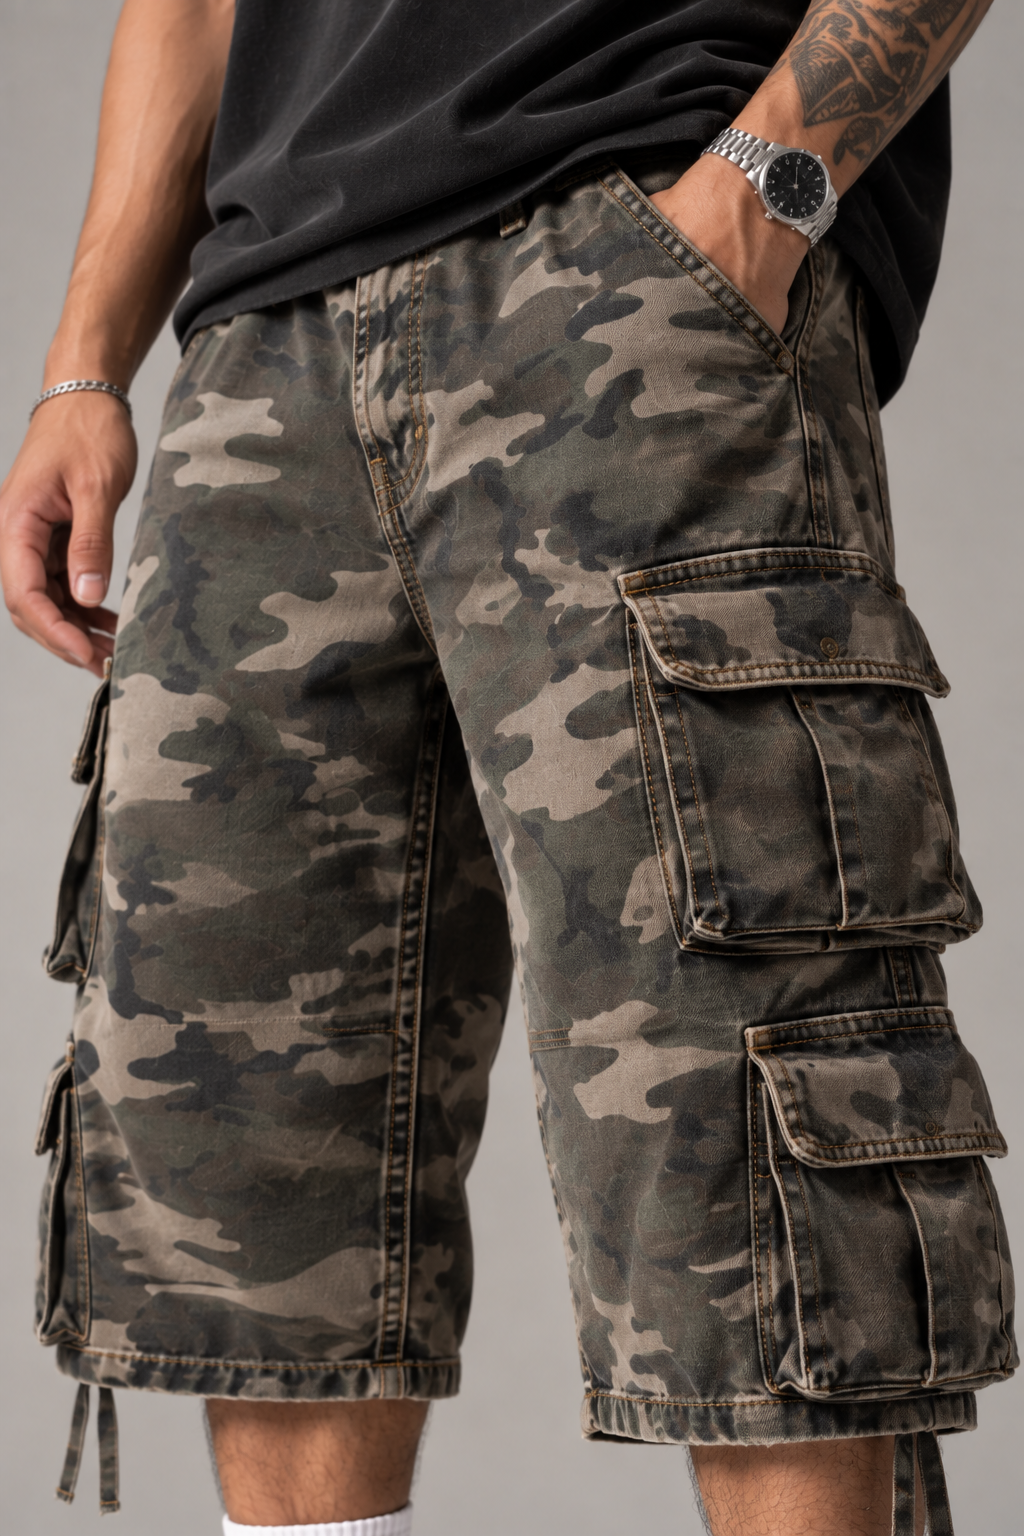
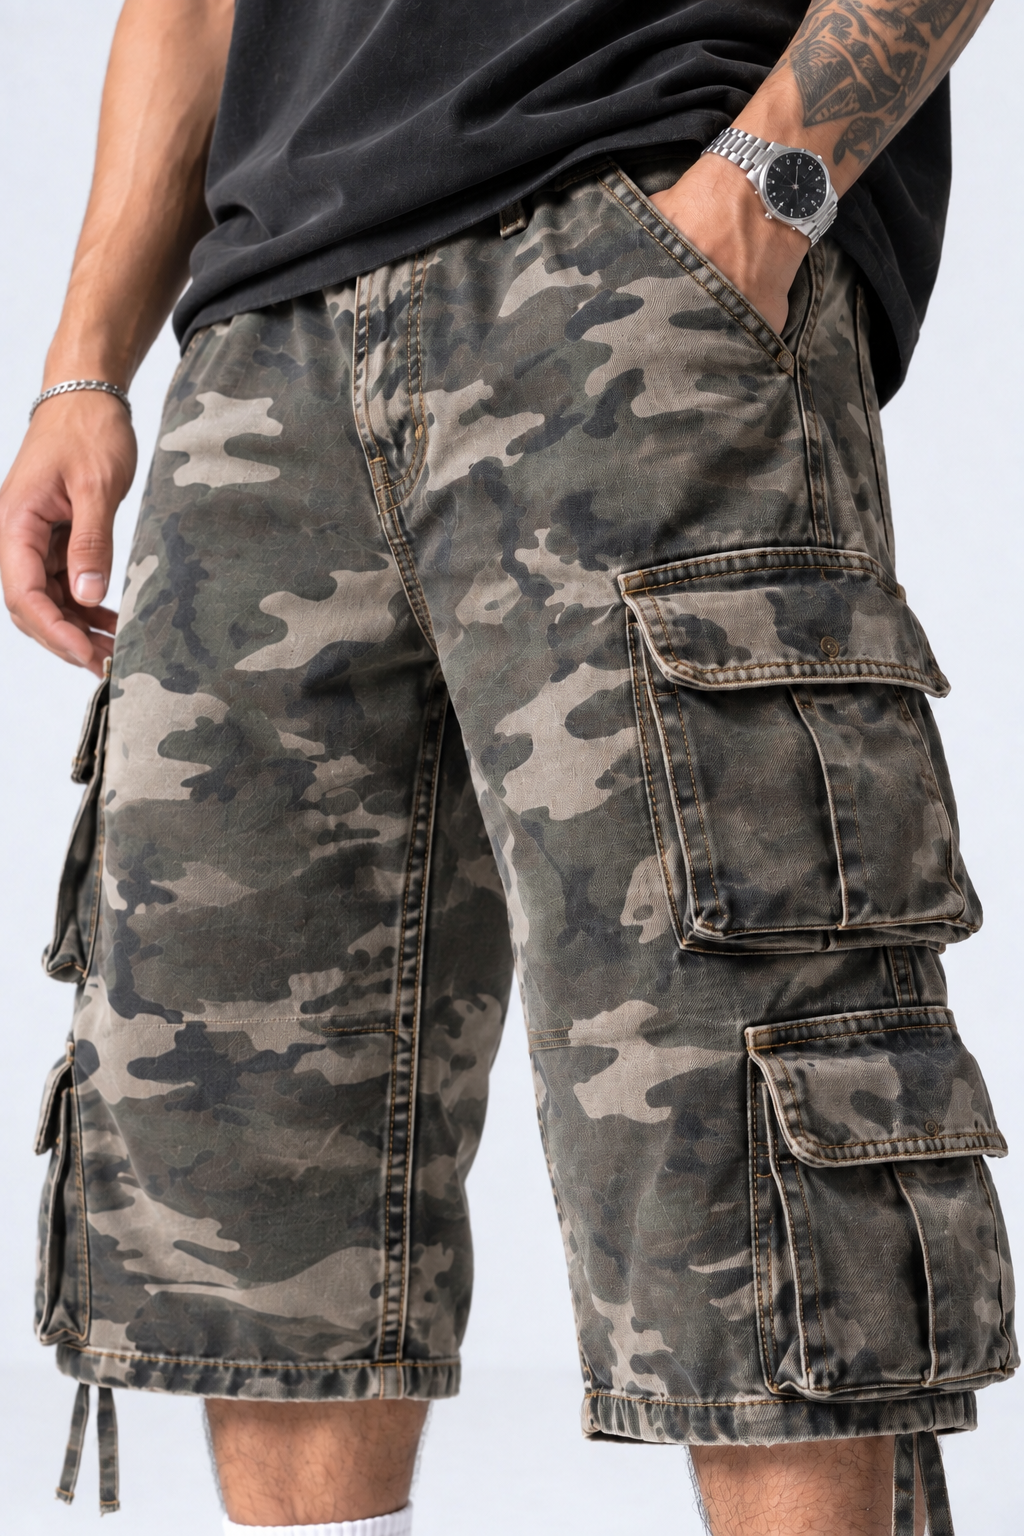
Refresh Camo 3/4 Cargo Shorts with new editorial studio shots (v2 filenames); bump cache v78

diff --git a/js/data.js b/js/data.js
@@ -59,7 +59,7 @@ const PRODUCTS = [
 
   /* ---- Shorts collection (real photography, verified logo-free) ---- */
   {id:"rl-sp260310pmh6", name:"Light Wash Distressed Denim Shorts", cat:"Shorts", price:70, was:0, color:"Light Wash", tag:"BEST SELLER", rating:4.7, reviews:88, sizes:["S","M","L","XL","XXL"], oos:["S","XXL"], photos:["rl-sp260310pmh6-front2.jpg","rl-sp260310pmh6-side2.jpg","rl-sp260310pmh6-back2.jpg","rl-sp260310pmh6-detail2.jpg"], story:["The Light Wash Distressed Denim Shorts take a relaxed wide-leg jort and push it into full streetwear territory, cut long and loose for an easy, lived-in drape. A bright light wash and all-over crackle give them a sun-faded look straight off the rack.","Heavy hand-finished rips run across the front and open into an irregular frayed hem that keeps fraying with every wear. Classic five-pocket construction, antique rivets and a signature Reserved LA woven tab finish a pair built to look better the more you beat them up."], model:"Model is 185cm / 6ft 1in, 75kg / 165lbs, 31-inch waist — wears size M", features:["Relaxed wide-leg fit","Falls below the knee","Heavy distressing and blown-out rips","Raw, irregular frayed hem","Five-pocket styling with antique rivets","Reserved LA woven tab at back pocket","100% cotton denim"], desc:"Loose wide-leg denim jorts in a light wash, finished with heavy rips and an irregular frayed hem for real streetwear grit."},
-  {id:"rl-sp26061297av", name:"Camo 3/4 Cargo Shorts", cat:"Shorts", price:86, was:0, color:"Green Camo", tag:"NEW", rating:4.8, reviews:42, sizes:["S","M","L","XL"], oos:[], photos:["rl-sp26061297av-front.jpg","rl-sp26061297av-side.jpg","rl-sp26061297av-back.jpg","rl-sp26061297av-detail.jpg"], story:["Cut in a longer 3/4 length, the Camo 3/4 Cargo Shorts sit right at the shin for that oversized, early-2000s utility silhouette. A soft washed camo print with tonal contrast stitching keeps them looking broken-in from day one.","Bellowed flap cargo pockets ride each leg for real storage, reinforced with bar-tack stitching at every stress point. Cut from durable cotton ripstop with a relaxed straight leg, they layer effortlessly over any sneaker."], model:"Model is 185cm / 6ft 1in, 75kg / 165lbs, 31-inch waist — wears size M", features:["Relaxed straight fit","Longer 3/4 length","Bellowed flap cargo pockets","Bar-tack reinforced stress points","Washed camo print","Reserved LA woven tab","100% cotton ripstop"], desc:"Cotton ripstop camo cargos in a longer 3/4 length. Relaxed straight fit, reinforced flap pockets, and bar-tack stitching at the stress points."},
+  {id:"rl-sp26061297av", name:"Camo 3/4 Cargo Shorts", cat:"Shorts", price:86, was:0, color:"Green Camo", tag:"NEW", rating:4.8, reviews:42, sizes:["S","M","L","XL"], oos:[], photos:["rl-sp26061297av-front2.jpg","rl-sp26061297av-side2.jpg","rl-sp26061297av-back2.jpg","rl-sp26061297av-detail2.jpg"], story:["Cut in a longer 3/4 length, the Camo 3/4 Cargo Shorts sit right at the shin for that oversized, early-2000s utility silhouette. A soft washed camo print with tonal contrast stitching keeps them looking broken-in from day one.","Bellowed flap cargo pockets ride each leg for real storage, reinforced with bar-tack stitching at every stress point. Cut from durable cotton ripstop with a relaxed straight leg, they layer effortlessly over any sneaker."], model:"Model is 185cm / 6ft 1in, 75kg / 165lbs, 31-inch waist — wears size M", features:["Relaxed straight fit","Longer 3/4 length","Bellowed flap cargo pockets","Bar-tack reinforced stress points","Washed camo print","Reserved LA woven tab","100% cotton ripstop"], desc:"Cotton ripstop camo cargos in a longer 3/4 length. Relaxed straight fit, reinforced flap pockets, and bar-tack stitching at the stress points."},
   {id:"rl-sp260616fa60", name:"Military Wide-Leg Cargo Shorts", cat:"Shorts", price:92, was:0, color:"Washed Camo", tag:"NEW", rating:4.8, reviews:61, sizes:["S","M","L","XL","XXL"], oos:["XXL"], photos:["rl-sp260616fa60-front.jpg","rl-sp260616fa60-side.jpg","rl-sp260616fa60-back.jpg","rl-sp260616fa60-detail.jpg"], story:["The Military Wide-Leg Cargo Shorts are our most dramatic short yet — cut wide and long with true volume through the leg for a runway-ready, utilitarian shape. A vintage camo wash with rust-toned overdye gives every pair a weathered, one-of-one feel.","Stacked utility pockets, webbing straps and buckle hardware bring genuine military detailing, while adjustable leg tabs let you tune the drape. Built from heavy washed cotton that holds its structure and softens with wear."], model:"Model is 185cm / 6ft 1in, 75kg / 165lbs, 31-inch waist — wears size M", features:["Wide-leg volume fit","Long, below-knee length","Stacked cargo and utility pockets","Webbing straps with buckle hardware","Adjustable leg tabs","Vintage camo overdye wash","100% heavy cotton"], desc:"Wide-leg military cargos in a vintage-washed camo, cut long and roomy with stacked utility pockets, webbing straps and buckle detailing. A dramatic, runway-ready short."},
   {id:"rl-sp260602ah0q", name:"Cargo Multi-Pocket Denim Jorts", cat:"Shorts", price:72, was:88, color:"Washed Denim", tag:"SALE", rating:4.6, reviews:64, sizes:["M","L","XL","XXL"], oos:["M"], photos:["rl-sp260602ah0q-front.jpg","rl-sp260602ah0q-side.jpg","rl-sp260602ah0q-back.jpg","rl-sp260602ah0q-detail.jpg"], story:["Part cargo, part jort — the Cargo Multi-Pocket Denim Jorts combine a wide denim base with utility pockets stacked down each leg. A mid washed indigo keeps them versatile enough to anchor any fit.","Flap cargo pockets, coin pockets and classic five-pocket denim styling give you storage from every angle, all reinforced with sturdy rivets. A frayed cut hem adds the finishing streetwear edge."], model:"Model is 185cm / 6ft 1in, 75kg / 165lbs, 31-inch waist — wears size M", features:["Relaxed wide fit","Below-knee length","Stacked flap cargo pockets","Five-pocket denim construction","Reinforced rivets","Frayed cut hem","100% cotton denim"], desc:"Cotton denim cargo jorts with a soft wash, wide-leg silhouette, raw hem, and a reinforced multi-pocket layout. Utility with an attitude."},
   {id:"rl-sp260514qcbq", name:"Industrial Cargo Shorts", cat:"Shorts", price:116, was:0, color:"Washed Brown", tag:"", rating:4.9, reviews:37, sizes:["M","L","XL","XXL"], oos:["M"], photos:["rl-sp260514qcbq-front.jpg","rl-sp260514qcbq-side.jpg","rl-sp260514qcbq-back.jpg","rl-sp260514qcbq-detail.jpg"], story:["The Industrial Cargo Shorts are our most technical short yet, built on a washed-brown canvas with contrast black mesh panels and a full rig of straps, buckles and D-rings. Rust-toned overdye and heavy topstitching give every pair a weathered, one-of-one feel.","Stacked 3D cargo pockets, webbing straps, metal eyelets and adjustable buckle hardware make them as functional as they are aggressive — genuine utility with a runway edge. Cut from a heavy washed cotton canvas with mesh inserts and a relaxed straight leg."], model:"Model is 185cm / 6ft 1in, 75kg / 165lbs, 31-inch waist — wears size M", features:["Relaxed straight fit","Washed-brown canvas with black mesh panels","Stacked 3D cargo pockets","Webbing straps with buckle hardware","Metal eyelets and D-rings","Rust-toned overdye wash","Heavy washed cotton canvas"], desc:"Heavy washed-canvas cargo shorts with 3D utility pockets, mesh panels, and a full rig of straps and buckle hardware. A premium, hard-edged statement."},

diff --git a/shop.html b/shop.html
@@ -10,7 +10,7 @@
 <link href="https://fonts.googleapis.com/css2?family=Anton&family=Inter:wght@400;500;600;700&display=swap" rel="stylesheet">
   <link rel="icon" type="image/png" href="assets/favicon.png">
   <link rel="apple-touch-icon" href="assets/favicon.png">
-<link rel="stylesheet" href="styles.css?v=77">
+<link rel="stylesheet" href="styles.css?v=78">
 </head>
 <body>
 <div id="announce-slot"></div>
@@ -41,9 +41,9 @@
 </main>
 
 <div id="footer-slot"></div>
-<script src="js/data.js?v=77"></script>
-<script src="js/site.js?v=77"></script>
-<script src="js/shop.js?v=77"></script>
+<script src="js/data.js?v=78"></script>
+<script src="js/site.js?v=78"></script>
+<script src="js/shop.js?v=78"></script>
 <script>mountChrome("shop"); initShop();</script>
 </body>
 </html>

diff --git a/product.html b/product.html
@@ -10,7 +10,7 @@
 <link href="https://fonts.googleapis.com/css2?family=Anton&family=Inter:wght@400;500;600;700&display=swap" rel="stylesheet">
   <link rel="icon" type="image/png" href="assets/favicon.png">
   <link rel="apple-touch-icon" href="assets/favicon.png">
-<link rel="stylesheet" href="styles.css?v=77">
+<link rel="stylesheet" href="styles.css?v=78">
 </head>
 <body>
 <div id="announce-slot"></div>
@@ -25,9 +25,9 @@
 </main>
 
 <div id="footer-slot"></div>
-<script src="js/data.js?v=77"></script>
-<script src="js/site.js?v=77"></script>
-<script src="js/shop.js?v=77"></script>
+<script src="js/data.js?v=78"></script>
+<script src="js/site.js?v=78"></script>
+<script src="js/shop.js?v=78"></script>
 <script>mountChrome(""); initProduct();</script>
 </body>
 </html>

diff --git a/track-order.html b/track-order.html
@@ -10,7 +10,7 @@
 <link href="https://fonts.googleapis.com/css2?family=Anton&family=Inter:wght@400;500;600;700&display=swap" rel="stylesheet">
   <link rel="icon" type="image/png" href="assets/favicon.png">
   <link rel="apple-touch-icon" href="assets/favicon.png">
-<link rel="stylesheet" href="styles.css?v=77">
+<link rel="stylesheet" href="styles.css?v=78">
 </head>
 <body>
 <div id="announce-slot"></div>
@@ -31,8 +31,8 @@
 </main>
 
 <div id="footer-slot"></div>
-<script src="js/data.js?v=77"></script>
-<script src="js/site.js?v=77"></script>
+<script src="js/data.js?v=78"></script>
+<script src="js/site.js?v=78"></script>
 <script>
   mountChrome("");
   function trackSubmit(e){ e.preventDefault(); toast("We've emailed your latest tracking details."); return false; }

diff --git a/index.html b/index.html
@@ -20,7 +20,7 @@
 <link href="https://fonts.googleapis.com/css2?family=Anton&family=Inter:wght@400;500;600;700&display=swap" rel="stylesheet">
   <link rel="icon" type="image/png" href="assets/favicon.png">
   <link rel="apple-touch-icon" href="assets/favicon.png">
-<link rel="stylesheet" href="styles.css?v=77">
+<link rel="stylesheet" href="styles.css?v=78">
 </head>
 <body>
 <div id="announce-slot"></div>
@@ -181,9 +181,9 @@
 
 <div id="footer-slot"></div>
 
-<script src="js/data.js?v=77"></script>
-<script src="js/site.js?v=77"></script>
-<script src="js/shop.js?v=77"></script>
+<script src="js/data.js?v=78"></script>
+<script src="js/site.js?v=78"></script>
+<script src="js/shop.js?v=78"></script>
 <script>
   mountChrome("home");
 

diff --git a/contact.html b/contact.html
@@ -10,7 +10,7 @@
 <link href="https://fonts.googleapis.com/css2?family=Anton&family=Inter:wght@400;500;600;700&display=swap" rel="stylesheet">
   <link rel="icon" type="image/png" href="assets/favicon.png">
   <link rel="apple-touch-icon" href="assets/favicon.png">
-<link rel="stylesheet" href="styles.css?v=77">
+<link rel="stylesheet" href="styles.css?v=78">
 </head>
 <body>
 <div id="announce-slot"></div>
@@ -72,8 +72,8 @@
 </main>
 
 <div id="footer-slot"></div>
-<script src="js/data.js?v=77"></script>
-<script src="js/site.js?v=77"></script>
+<script src="js/data.js?v=78"></script>
+<script src="js/site.js?v=78"></script>
 <script>
   mountChrome("contact");
   document.getElementById("cPhone").innerHTML = BRAND.phone;

diff --git a/about.html b/about.html
@@ -10,7 +10,7 @@
 <link href="https://fonts.googleapis.com/css2?family=Anton&family=Inter:wght@400;500;600;700&display=swap" rel="stylesheet">
   <link rel="icon" type="image/png" href="assets/favicon.png">
   <link rel="apple-touch-icon" href="assets/favicon.png">
-<link rel="stylesheet" href="styles.css?v=77">
+<link rel="stylesheet" href="styles.css?v=78">
 </head>
 <body>
 <div id="announce-slot"></div>
@@ -48,8 +48,8 @@
 </main>
 
 <div id="footer-slot"></div>
-<script src="js/data.js?v=77"></script>
-<script src="js/site.js?v=77"></script>
+<script src="js/data.js?v=78"></script>
+<script src="js/site.js?v=78"></script>
 <script>mountChrome("about");</script>
 </body>
 </html>

diff --git a/business-disclaimer.html b/business-disclaimer.html
@@ -10,7 +10,7 @@
 <link href="https://fonts.googleapis.com/css2?family=Anton&family=Inter:wght@400;500;600;700&display=swap" rel="stylesheet">
   <link rel="icon" type="image/png" href="assets/favicon.png">
   <link rel="apple-touch-icon" href="assets/favicon.png">
-<link rel="stylesheet" href="styles.css?v=77">
+<link rel="stylesheet" href="styles.css?v=78">
 </head>
 <body>
 <div id="announce-slot"></div>
@@ -54,8 +54,8 @@
 </main>
 
 <div id="footer-slot"></div>
-<script src="js/data.js?v=77"></script>
-<script src="js/site.js?v=77"></script>
+<script src="js/data.js?v=78"></script>
+<script src="js/site.js?v=78"></script>
 <script>mountChrome("");</script>
 </body>
 </html>

diff --git a/faq.html b/faq.html
@@ -10,7 +10,7 @@
 <link href="https://fonts.googleapis.com/css2?family=Anton&family=Inter:wght@400;500;600;700&display=swap" rel="stylesheet">
   <link rel="icon" type="image/png" href="assets/favicon.png">
   <link rel="apple-touch-icon" href="assets/favicon.png">
-<link rel="stylesheet" href="styles.css?v=77">
+<link rel="stylesheet" href="styles.css?v=78">
 </head>
 <body>
 <div id="announce-slot"></div>
@@ -54,8 +54,8 @@
 </main>
 
 <div id="footer-slot"></div>
-<script src="js/data.js?v=77"></script>
-<script src="js/site.js?v=77"></script>
+<script src="js/data.js?v=78"></script>
+<script src="js/site.js?v=78"></script>
 <script>mountChrome("");</script>
 </body>
 </html>

diff --git a/privacy-policy.html b/privacy-policy.html
@@ -10,7 +10,7 @@
 <link href="https://fonts.googleapis.com/css2?family=Anton&family=Inter:wght@400;500;600;700&display=swap" rel="stylesheet">
   <link rel="icon" type="image/png" href="assets/favicon.png">
   <link rel="apple-touch-icon" href="assets/favicon.png">
-<link rel="stylesheet" href="styles.css?v=77">
+<link rel="stylesheet" href="styles.css?v=78">
 </head>
 <body>
 <div id="announce-slot"></div>
@@ -89,8 +89,8 @@
 </main>
 
 <div id="footer-slot"></div>
-<script src="js/data.js?v=77"></script>
-<script src="js/site.js?v=77"></script>
+<script src="js/data.js?v=78"></script>
+<script src="js/site.js?v=78"></script>
 <script>mountChrome("");</script>
 </body>
 </html>

diff --git a/refund-policy.html b/refund-policy.html
@@ -10,7 +10,7 @@
 <link href="https://fonts.googleapis.com/css2?family=Anton&family=Inter:wght@400;500;600;700&display=swap" rel="stylesheet">
   <link rel="icon" type="image/png" href="assets/favicon.png">
   <link rel="apple-touch-icon" href="assets/favicon.png">
-<link rel="stylesheet" href="styles.css?v=77">
+<link rel="stylesheet" href="styles.css?v=78">
 </head>
 <body>
 <div id="announce-slot"></div>
@@ -77,8 +77,8 @@
 </main>
 
 <div id="footer-slot"></div>
-<script src="js/data.js?v=77"></script>
-<script src="js/site.js?v=77"></script>
+<script src="js/data.js?v=78"></script>
+<script src="js/site.js?v=78"></script>
 <script>mountChrome("");</script>
 </body>
 </html>

diff --git a/shipping-policy.html b/shipping-policy.html
@@ -10,7 +10,7 @@
 <link href="https://fonts.googleapis.com/css2?family=Anton&family=Inter:wght@400;500;600;700&display=swap" rel="stylesheet">
   <link rel="icon" type="image/png" href="assets/favicon.png">
   <link rel="apple-touch-icon" href="assets/favicon.png">
-<link rel="stylesheet" href="styles.css?v=77">
+<link rel="stylesheet" href="styles.css?v=78">
 </head>
 <body>
 <div id="announce-slot"></div>
@@ -67,8 +67,8 @@
 </main>
 
 <div id="footer-slot"></div>
-<script src="js/data.js?v=77"></script>
-<script src="js/site.js?v=77"></script>
+<script src="js/data.js?v=78"></script>
+<script src="js/site.js?v=78"></script>
 <script>mountChrome("");</script>
 </body>
 </html>
